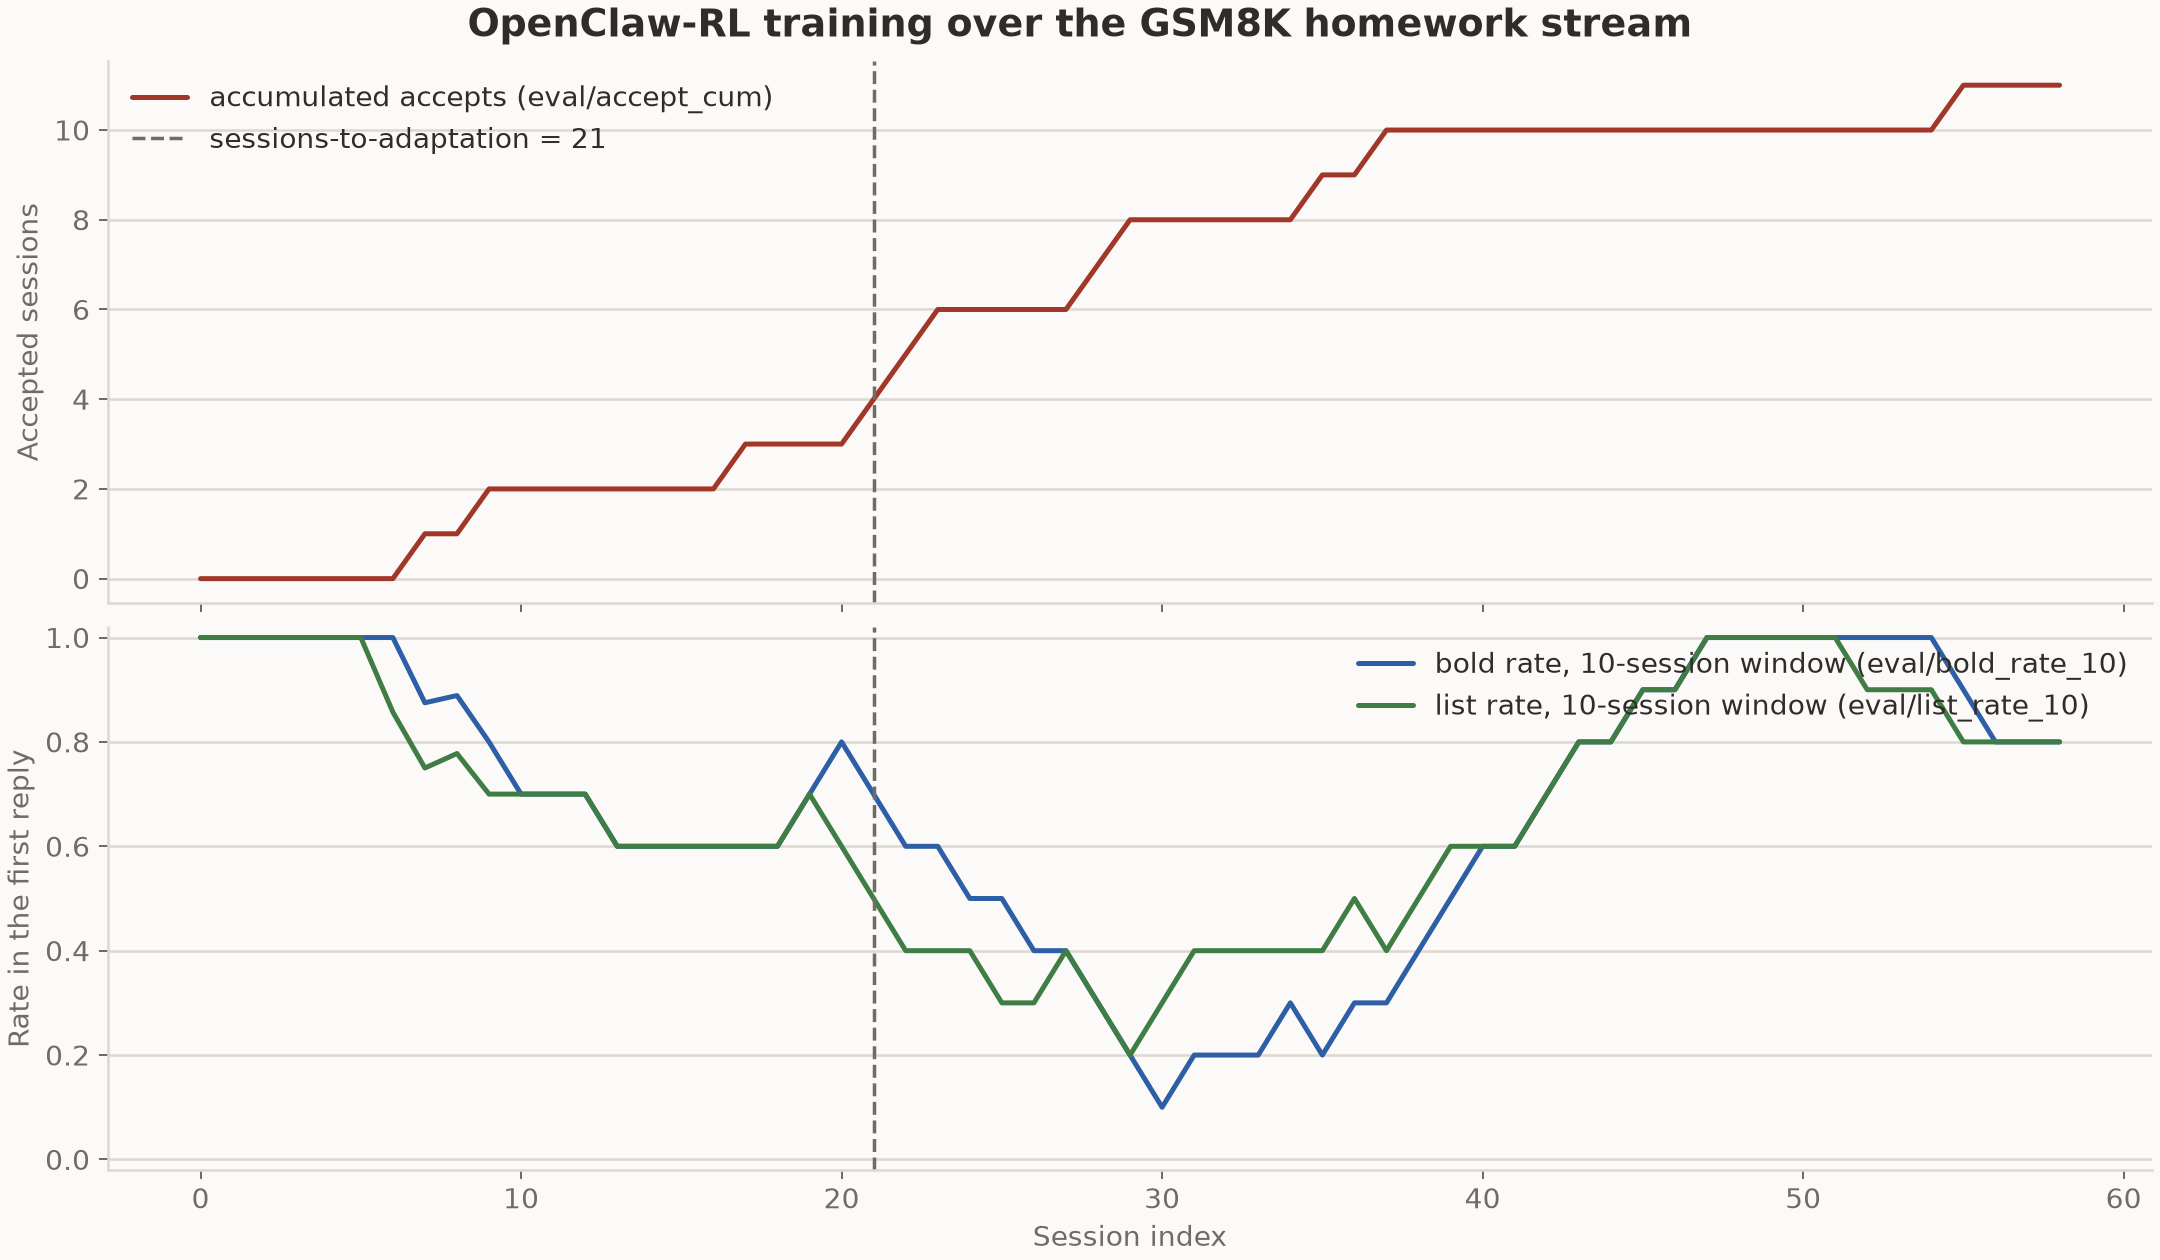
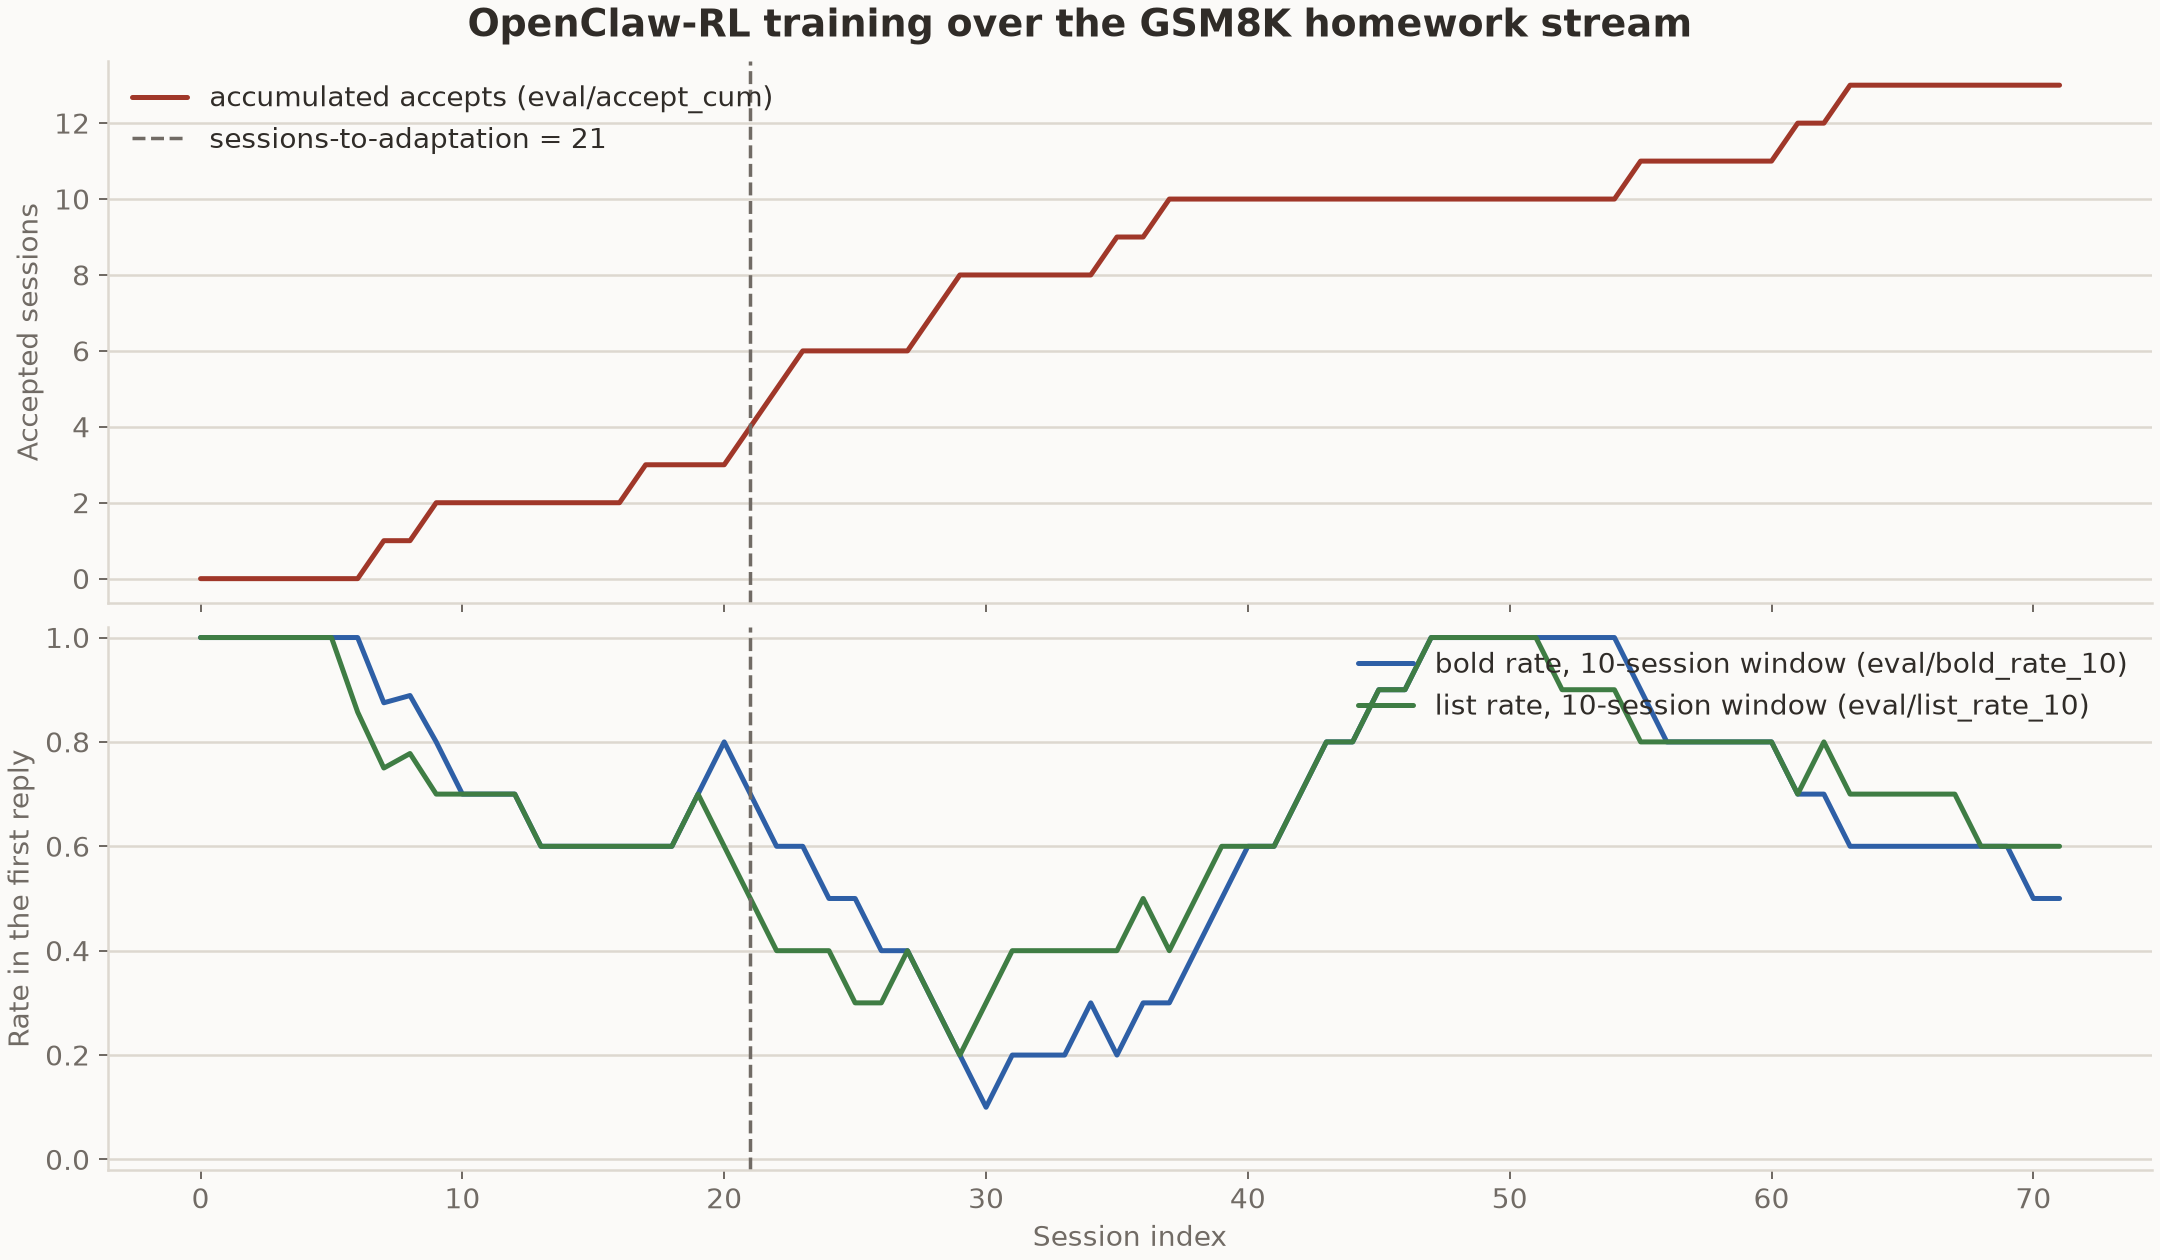
docs(openclawrl): update the MLX stream result to all 72 sessions

diff --git a/recipes/openclawrl/examples/openclawrl/README.md b/recipes/openclawrl/examples/openclawrl/README.md
@@ -315,12 +315,12 @@ the first reply passes directly.
 ### GSM8K homework stream on Apple Silicon
 
 `results/2026-10-19-mlx-gsm8k-stream-qwen3.5-9b/` is a run of `serve-mlx.yaml`
-on one Mac. The result covers the first 59 sessions of the stream.
+on one Mac, over the whole stream.
 
 | Setting | Value |
 | --- | --- |
 | Config | `serve-mlx.yaml` as committed, with machine-specific paths and port |
-| Task | the 72-session GSM8K homework stream, sessions 0 to 58 |
+| Task | the 72-session GSM8K homework stream |
 | Model | `mlx-community/Qwen3.5-9B-MLX-4bit` as the policy, thinking off |
 | PRM | `z-ai/glm-5.3` through OpenRouter, 3 votes per turn |
 | Student | `qwen/qwen3-32b` through OpenRouter |
@@ -329,10 +329,11 @@ on one Mac. The result covers the first 59 sessions of the stream.
 
 The run reached the adaptation criterion at session 21, after 8 training
 steps: sessions 21, 22 and 23 passed. The habit did not hold. In sessions
-21 to 39, 7 of 19 sessions passed. In sessions 40 to 58, 1 of 19 passed, and
-the first reply of 17 of them used bold text again.
+21 to 39, 7 of 19 sessions passed. In sessions 40 to 71, 3 of 32 passed, and
+the first reply of 24 of them used bold text again. Over the whole stream,
+13 of 72 sessions passed.
 
-![Accumulated accepts and the rolling bold and list rates over the first 59 sessions of the MLX run](results/2026-10-19-mlx-gsm8k-stream-qwen3.5-9b/learning_curve.png)
+![Accumulated accepts and the rolling bold and list rates over the 72 sessions of the MLX run](results/2026-10-19-mlx-gsm8k-stream-qwen3.5-9b/learning_curve.png)
 
 | Sessions | Passed | First reply with bold text | First reply with a list |
 | --- | --- | --- | --- |
@@ -340,17 +341,18 @@ the first reply of 17 of them used bold text again.
 | 7 to 20 | 3 of 14 | 9 | 8 |
 | 21 to 39 | 7 of 19 | 6 | 8 |
 | 40 to 58 | 1 of 19 | 17 | 17 |
+| 59 to 71 | 2 of 13 | 7 | 8 |
 
 Other observations from the run:
 
-- The candidate evaluation selected 17 of 19 steps. Step 2 was skipped
+- The candidate evaluation selected 20 of 22 steps. Step 2 was skipped
   because 5 of its 8 rows were longer than `max_train_tokens`. Step 18 was
   held because its `reply_rate` was 0.375, below `min_reply_rate`.
 - The style probe's `clean_rate` stayed at 0 for every candidate. The
   stream shows the style change; the probe does not.
 - No step had a negative advantage. Tool turns are not trained, and a
   rejected reply trains only from its hint.
-- 18 of 59 sessions ended in a hermes turn timeout. The first reply of these
+- 27 of 72 sessions ended in a hermes turn timeout. The first reply of these
   sessions is still judged.
 
 `learning_curve.csv` holds the per-session verdicts, written by
